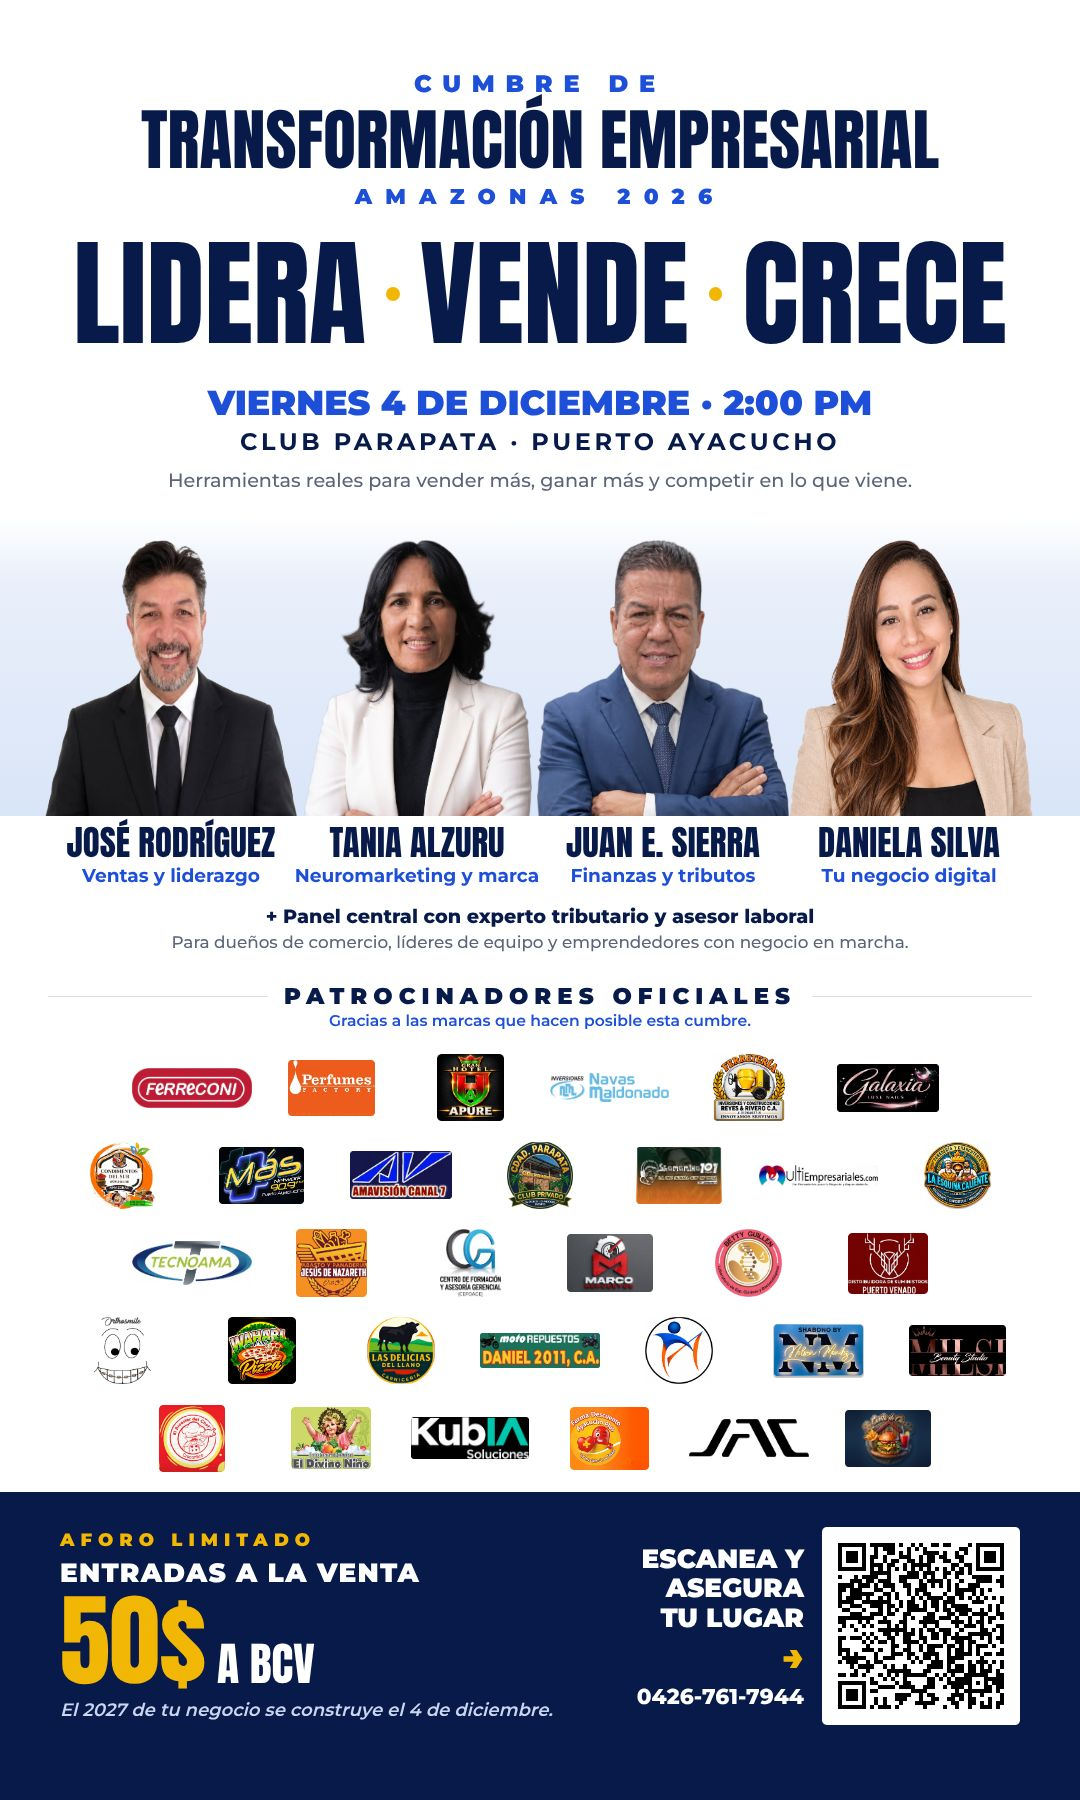
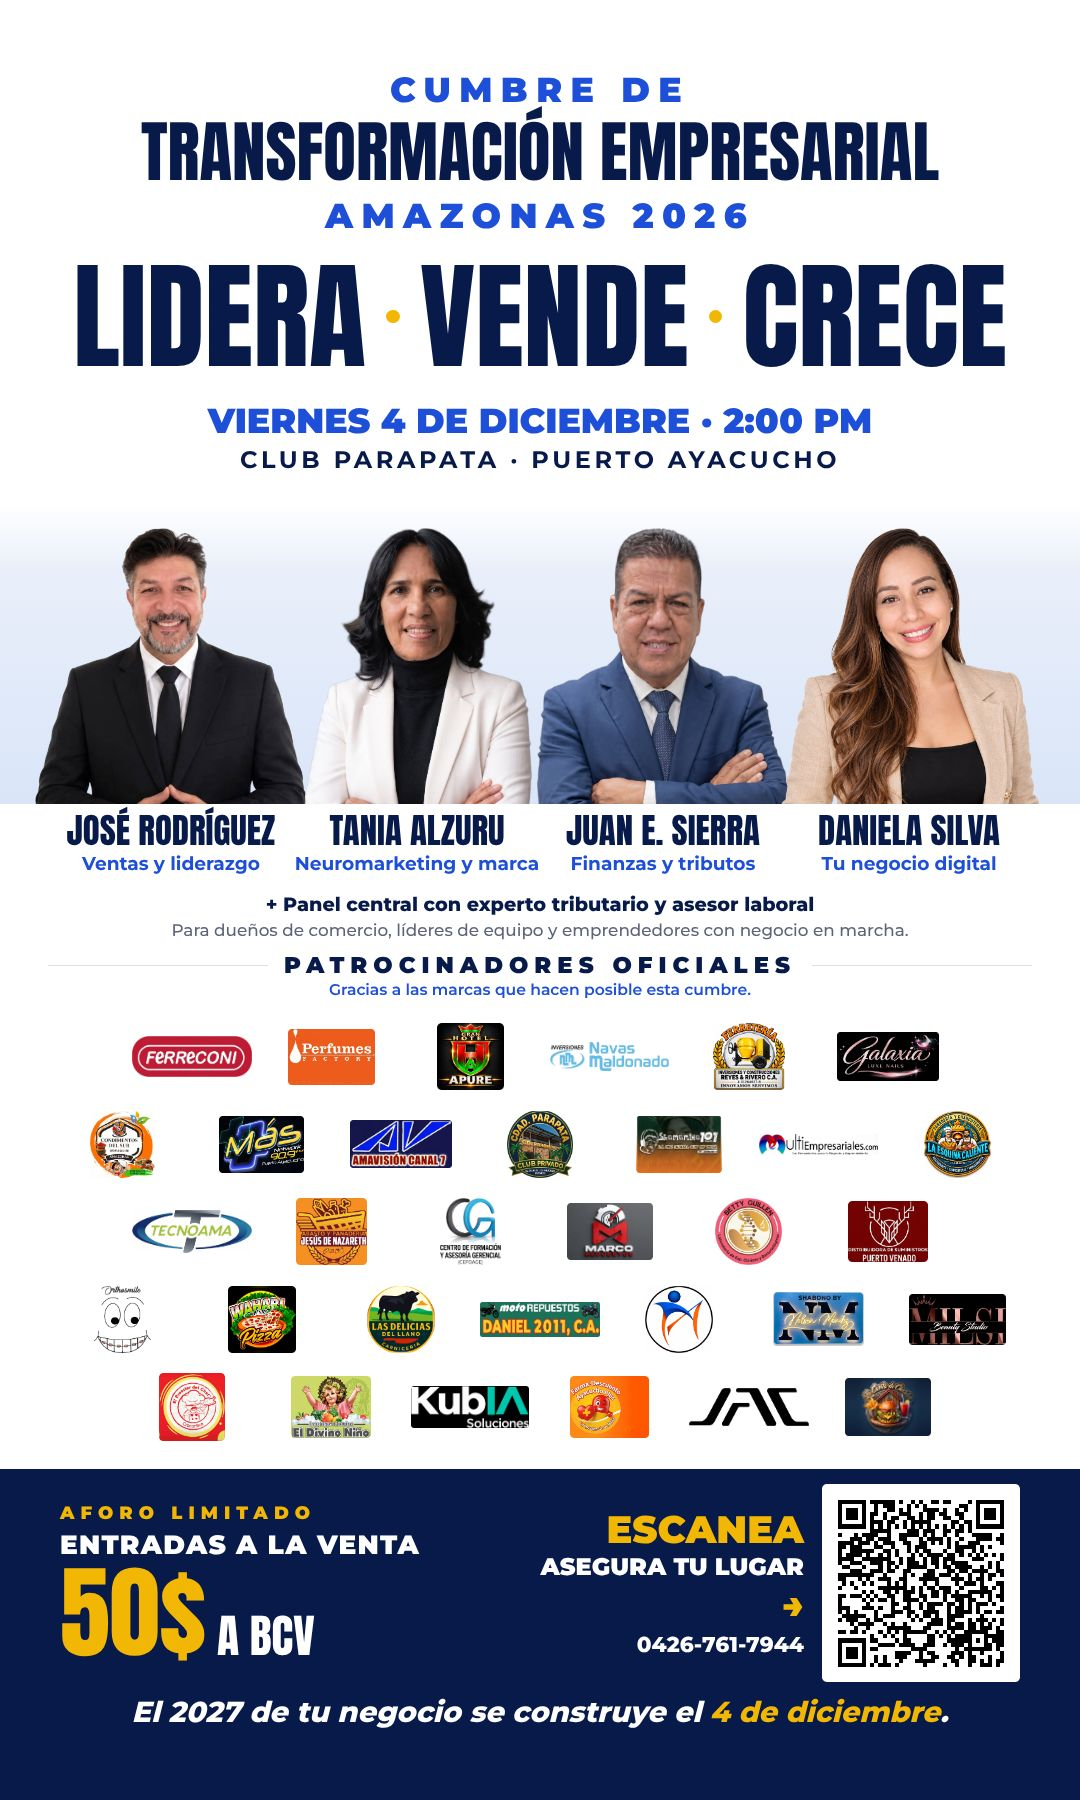
fix(pendón): rostros de los extremos sin estirar; identidad al tamaño de la fecha; CTA en 2 líneas y cierre centrado
Claude-Session: https://claude.ai/code/session_01QsWqbeeNspL7vUpqZXuytH

Changed region(s): [[0.0, 0.0311, 1.0, 0.9644]]

diff --git a/producciones/pendon-cumbre/src/PendonPremium.tsx b/producciones/pendon-cumbre/src/PendonPremium.tsx
@@ -55,17 +55,17 @@ const Logo: React.FC<{l: string}> = ({l}) => {
 
 export const PendonPremium: React.FC = () => {
 	useFuentes();
-	const Y = 900; // línea de cabezas de los ponentes
+	const Y = 880; // línea de cabezas de los ponentes
 	return (
 		<AbsoluteFill style={{background: '#FFFFFF'}}>
 			{/* ZONA 1 · identidad del evento: clara, pero por debajo del mensaje */}
 			{centro(118, <>
-				<T s={40} p={900} c={C.azul} ls={18}>CUMBRE DE</T>
+				<T s={58} p={900} c={C.azul} ls={14}>CUMBRE DE</T>
 				<T s={112} f={F.titulo} p={400} style={{marginTop: 12, whiteSpace: 'nowrap'}}>TRANSFORMACIÓN EMPRESARIAL</T>
-				<T s={36} p={900} c={C.azul} ls={22} style={{marginTop: 14}}>AMAZONAS 2026</T>
+				<T s={58} p={900} c={C.azul} ls={14} style={{marginTop: 14}}>AMAZONAS 2026</T>
 			</>)}
 			{/* ZONA 2 · mensaje principal: el elemento dominante */}
-			{centro(392, <div style={{display: 'flex', alignItems: 'center', gap: 34}}>
+			{centro(430, <div style={{display: 'flex', alignItems: 'center', gap: 34}}>
 				{['LIDERA', 'VENDE', 'CRECE'].map((w, i) => (
 					<React.Fragment key={w}>
 						{i > 0 && <div style={{width: 22, height: 22, borderRadius: 22, background: C.oro}} />}
@@ -73,17 +73,16 @@ export const PendonPremium: React.FC = () => {
 					</React.Fragment>
 				))}
 			</div>)}
-			{centro(640, <>
+			{centro(670, <>
 				<T s={58} p={900} c={C.azul}>VIERNES 4 DE DICIEMBRE · 2:00 PM</T>
 				<T s={40} p={700} ls={6} style={{marginTop: 12}}>CLUB PARAPATA · PUERTO AYACUCHO</T>
-				<T s={32} p={500} c={C.gris} style={{marginTop: 26}}>Herramientas reales para vender más, ganar más y competir en lo que viene.</T>
 			</>)}
 			{/* ZONA 3 · ponentes: una sola franja de bruma azul, sin marcos individuales */}
 			<div style={{position: 'absolute', left: 0, right: 0, top: Y - 40, height: 500, background: `linear-gradient(180deg, #FFFFFF 0%, ${C.bruma} 22%, #D9E5F8 100%)`, overflow: 'hidden'}}>
-				<div style={{position: 'absolute', left: 80, right: 80, top: 40, display: 'flex', justifyContent: 'space-between'}}>
+				<div style={{position: 'absolute', left: 80, right: 80, top: 40, display: 'flex', justifyContent: 'space-between', alignItems: 'flex-start'}}>
 					{PONENTES.map((p) => (
-						<div key={p.nombre} style={{width: 410, display: 'flex', justifyContent: 'center'}}>
-							<Img src={staticFile(p.foto)} style={{width: p.w, display: 'block'}} />
+						<div key={p.nombre} style={{width: 410, display: 'flex', justifyContent: 'center', alignItems: 'flex-start'}}>
+							<Img src={staticFile(p.foto)} style={{width: p.w, height: 'auto', display: 'block', flexShrink: 0}} />
 						</div>
 					))}
 				</div>
@@ -101,7 +100,7 @@ export const PendonPremium: React.FC = () => {
 				<T s={28} p={500} c={C.gris} style={{marginTop: 10}}>Para dueños de comercio, líderes de equipo y emprendedores con negocio en marcha.</T>
 			</>)}
 			{/* ZONA 4 · patrocinadores: ecosistema de marcas en grilla abierta */}
-			{centro(1640, <>
+			{centro(1588, <>
 				<div style={{display: 'flex', alignItems: 'center', gap: 26, width: 1640}}>
 					<div style={{flex: 1, height: 2, background: `${C.marino}26`}} />
 					<T s={38} p={900} ls={10}>PATROCINADORES OFICIALES</T>
@@ -113,8 +112,8 @@ export const PendonPremium: React.FC = () => {
 				</div>
 			</>)}
 			{/* ZONA 5 · conversión: franja azul marino a sangre */}
-			<div style={{position: 'absolute', left: 0, right: 0, top: 2486, bottom: 0, background: C.marino}} />
-			<div style={{position: 'absolute', left: 100, right: 100, top: 2530, height: 360, display: 'flex', alignItems: 'center', justifyContent: 'space-between'}}>
+			<div style={{position: 'absolute', left: 0, right: 0, top: 2448, bottom: 0, background: C.marino}} />
+			<div style={{position: 'absolute', left: 100, right: 100, top: 2474, height: 330, display: 'flex', alignItems: 'center', justifyContent: 'space-between'}}>
 				<div style={{display: 'flex', flexDirection: 'column', alignItems: 'flex-start'}}>
 					<T s={30} p={900} c={C.oro} ls={10}>AFORO LIMITADO</T>
 					<T s={44} p={900} c="#FFFFFF" ls={2} style={{marginTop: 14}}>ENTRADAS A LA VENTA</T>
@@ -122,11 +121,11 @@ export const PendonPremium: React.FC = () => {
 						<div style={{fontFamily: F.titulo, fontSize: 168, lineHeight: 1, color: C.oro}}>50$</div>
 						<div style={{fontFamily: F.titulo, fontSize: 76, lineHeight: 1, color: '#FFFFFF'}}>A BCV</div>
 					</div>
-					<T s={30} p={600} c="#C9D6F2" style={{marginTop: 18, fontStyle: 'italic', textAlign: 'left'}}>El 2027 de tu negocio se construye el 4 de diciembre.</T>
 				</div>
 				<div style={{display: 'flex', alignItems: 'center', gap: 30}}>
 					<div style={{display: 'flex', flexDirection: 'column', alignItems: 'flex-end'}}>
-						<T s={44} p={900} c="#FFFFFF" style={{textAlign: 'right', lineHeight: 1.12}}>ESCANEA Y<br />ASEGURA<br />TU LUGAR</T>
+						<T s={64} p={900} c={C.oro} style={{textAlign: 'right', lineHeight: 1}}>ESCANEA</T>
+						<T s={40} p={900} c="#FFFFFF" style={{textAlign: 'right', marginTop: 8}}>ASEGURA TU LUGAR</T>
 						<div style={{marginTop: 10, fontFamily: F.texto, fontWeight: 900, fontSize: 60, color: C.oro, lineHeight: 1}}>→</div>
 						<T s={36} p={800} c="#FFFFFF" style={{marginTop: 18}}>0426-761-7944</T>
 					</div>
@@ -135,6 +134,7 @@ export const PendonPremium: React.FC = () => {
 					</div>
 				</div>
 			</div>
+			{centro(2826, <T s={48} p={800} c="#FFFFFF" style={{fontStyle: 'italic'}}>El 2027 de tu negocio se construye el <span style={{color: C.oro}}>4 de diciembre</span>.</T>)}
 		</AbsoluteFill>
 	);
 };
